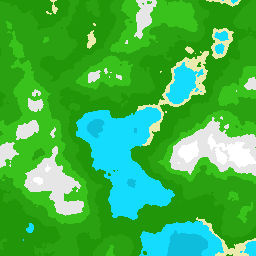
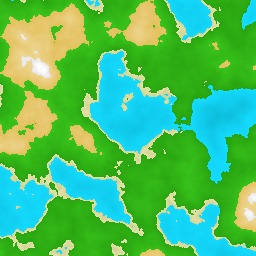
Add shading from heightmap

diff --git a/terrain.py b/terrain.py
@@ -1,42 +1,42 @@
+from color import interpolate_color
 from perlin_noise import PerlinNoiseFactory
 import numpy as np
 from matplotlib.colors import ListedColormap
 
-OCEAN = -1
 WATER = 0
-LOWLANDS = 1
-LAND = 2
-HIGHLANDS = 3
-MOUNTAIN = 4
-SNOW = 5
-SAND = 6
+LAND = 1
+MOUNTAIN = 2
+SNOW = 3
+SAND = 4
 
 biomes = {
-    OCEAN: [0, '#0dbddb'],
-    WATER: [0.2, '#14dcff'],
-    LOWLANDS: [0.4, '#209608'],
-    LAND: [0.55, '#29a110'],
-    HIGHLANDS: [0.7, '#38c21b'],
-    MOUNTAIN: [0.8, '#e6e6e6'],
-    SNOW: [0.9, '#fff'],
-    SAND: [-1, '#ebebae'],
+    WATER: {'from': 0.0, 'to': 0.4, 'color': '#14dcff', 'color_dark': '#0dbddb'},
+    LAND: {'from': 0.4, 'to': 0.7, 'color': '#38c21b', 'color_dark': '#28a30f'},
+    MOUNTAIN: {'from': 0.7, 'to': 0.90, 'color': '#edd591', 'color_dark': '#e3c05b'},
+    SNOW: {'from': 0.90, 'to': 1.0, 'color': '#ffffff', 'color_dark': '#e6e6e6'},
+    SAND: {'from': 0.4 - 0.025, 'to': 0.4 + 0.025, 'color': '#e3e3aa', 'color_dark': '#d1d192'},
 }
 
-colormap = ListedColormap(np.array(list(biomes.values()))[:, 1])
+colormap = ListedColormap([b['color'] for b in biomes.values()])
+
+
+def get_tile_color(type, height):
+    biome = biomes[type]
+
+    if biome['from'] != -1:
+        intensity = (height - biome['from']) / (biome['to'] - biome['from'])
+    else:
+        intensity = height
+
+    return interpolate_color(biome['color'], biome['color_dark'], intensity)
 
 
 def get_biome_from_height(height):
-    if height < biomes[WATER][0]:
-        return OCEAN
-    elif height < biomes[LOWLANDS][0]:
+    if height < biomes[WATER]['to']:
         return WATER
-    elif height < biomes[LAND][0]:
-        return LOWLANDS
-    elif height < biomes[HIGHLANDS][0]:
+    elif height < biomes[LAND]['to']:
         return LAND
-    elif height < biomes[MOUNTAIN][0]:
-        return HIGHLANDS
-    elif height < biomes[SNOW][0]:
+    elif height < biomes[MOUNTAIN]['to']:
         return MOUNTAIN
     else:
         return SNOW

diff --git a/beach.py b/beach.py
@@ -8,10 +8,10 @@ def replace_land(world, heightmap, noise, noise_threshold, biome_threshold):
     for y in range(0, world.shape[0]):
         for x in range(0, world.shape[1]):
             if noise[y, x] > noise_threshold and (
-                    world[y, x] == terrain.LOWLANDS or
+                    world[y, x] == terrain.LAND or
                     world[y, x] == terrain.WATER) and (
-                    heightmap[y, x] < biomes[terrain.LOWLANDS][0] + biome_threshold and
-                    heightmap[y, x] > biomes[terrain.LOWLANDS][0] - biome_threshold):
+                    heightmap[y, x] < biomes[terrain.WATER]['to'] + biome_threshold and
+                    heightmap[y, x] > biomes[terrain.LAND]['from'] - biome_threshold):
                 world[y, x] = terrain.SAND
 
     return world

diff --git a/main.py b/main.py
@@ -1,9 +1,17 @@
-from terrain import generate_terrain, colormap
+from terrain import generate_terrain, colormap, get_tile_color
 from beach import add_beaches
 import matplotlib.pyplot as plt
+from PIL import Image
+from color import hex_to_rgb
 
-world, heightmap = generate_terrain()
+height, width = 256, 256
+world, heightmap = generate_terrain(width, height, scale=0.0125)
 world, beaches_heightmap = add_beaches(world, heightmap)
 
-plt.imsave("beaches_heightmap.png", beaches_heightmap, cmap="gray")
-plt.imsave("map.png", world, cmap=colormap)
+img = Image.new('RGB', (width, height))
+for y in range(height):
+    for x in range(width):
+        color = hex_to_rgb(get_tile_color(world[y, x], heightmap[y, x]))
+        img.putpixel((x, y), tuple(color))
+
+img.save('map.png')

diff --git a/color.py b/color.py
@@ -1,0 +1,23 @@
+import numpy as np
+
+
+def hex_to_rgb(hex):
+    return (int(hex.lstrip('#')[i:i+2], 16) for i in (0, 2, 4))
+
+
+def rgb_to_hex(r, g, b):
+    r, g, b = round(r), round(g), round(b)
+    return "#{0:02x}{1:02x}{2:02x}".format(clamp(r), clamp(g), clamp(b))
+
+
+def clamp(x):
+    return max(0, min(x, 255))
+
+
+def interpolate_color(hex_light, hex_dark, intensity):
+    intensity = max(0.01, intensity)
+
+    light = np.array(list(hex_to_rgb(hex_light)))
+    dark = np.array(list(hex_to_rgb(hex_dark)))
+
+    return rgb_to_hex(*tuple((light - dark) * intensity + dark))
